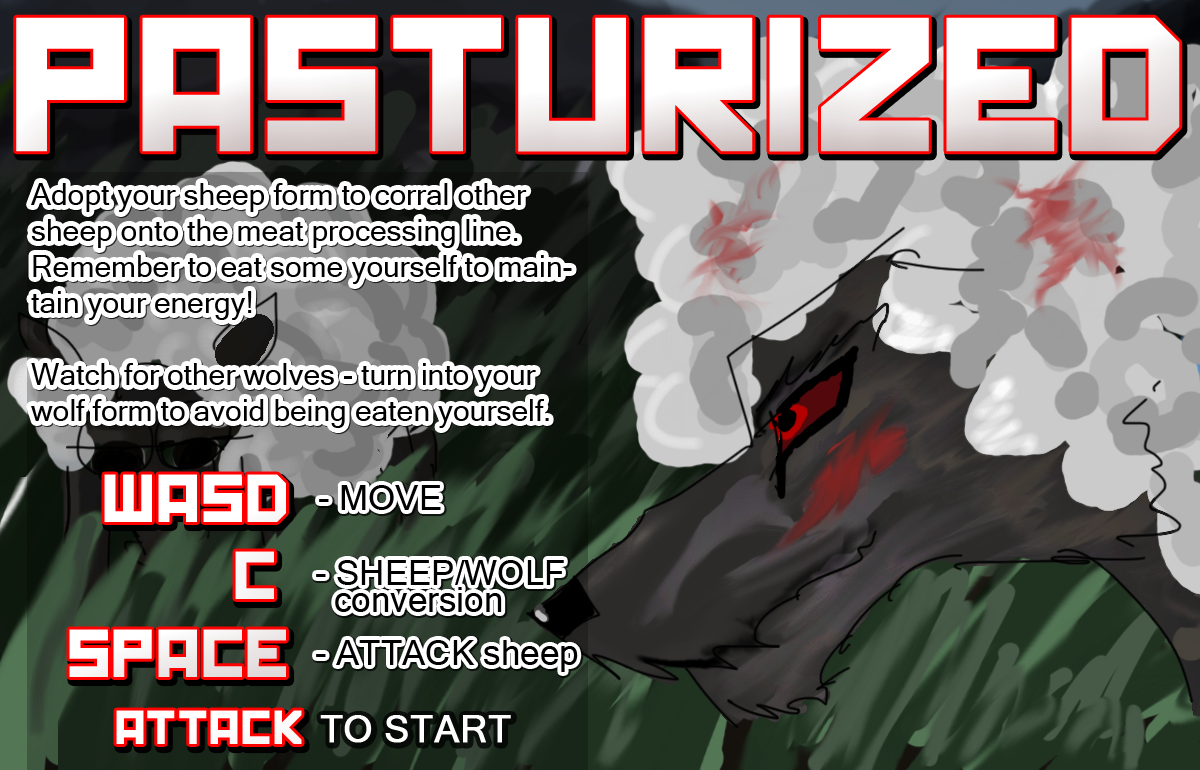
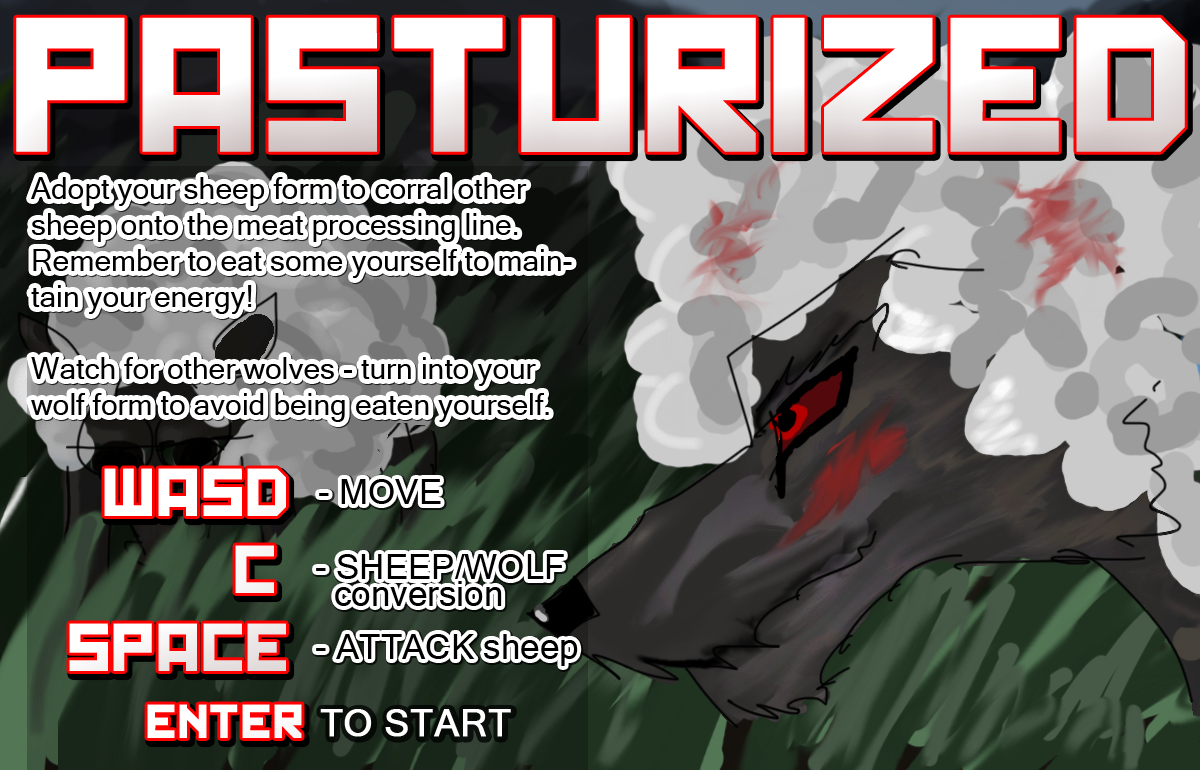
Use enter to toggle between menus/levels as opposed to space (to avoid accidental presses as space is used in-game as well)

diff --git a/lib/game/main.js b/lib/game/main.js
@@ -5,7 +5,7 @@ ig.module(
 	'impact.game',
 	'impact.font',
 
-	'impact.debug.debug',
+//	'impact.debug.debug',
 
 	'game.levels.main',
 	'game.levels.title',
@@ -75,7 +75,7 @@ ggj14 = ig.Game.extend({
 		ig.input.bind( ig.KEY.S, 'down');
 		ig.input.bind( ig.KEY.SPACE, 'space' );
 		ig.input.bind( ig.KEY.C, 'c' );
-		ig.input.bind( ig.KEY.ESC, 'esc' );
+		ig.input.bind( ig.KEY.ENTER, 'enter' );
 
 		// Add music
 		ig.music.add( this.introThemeMusic, 'introThemeMusic' );
@@ -187,13 +187,13 @@ ggj14 = ig.Game.extend({
 			}
 		}
 		else if (this.currentLevel === LevelTitle) {
-			if (ig.input.pressed('space')) {
+			if (ig.input.pressed('enter')) {
 				this.loadLevel(LevelMain);
 			}
 		}
 
 		else if (this.currentLevel === LevelGameover) {
-			if (ig.input.pressed('space')) {
+			if (ig.input.pressed('enter')) {
 				this.loadLevel(LevelTitle);
 			}
 		}
